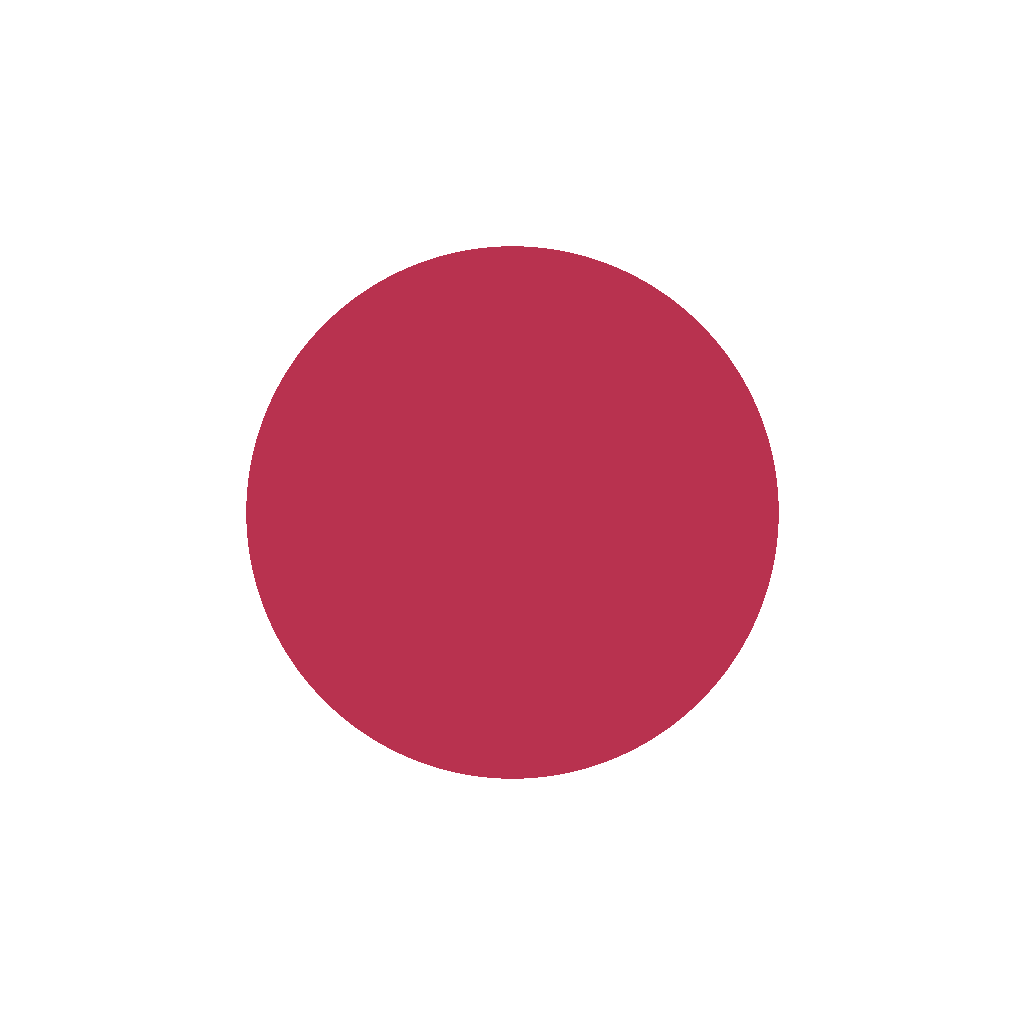
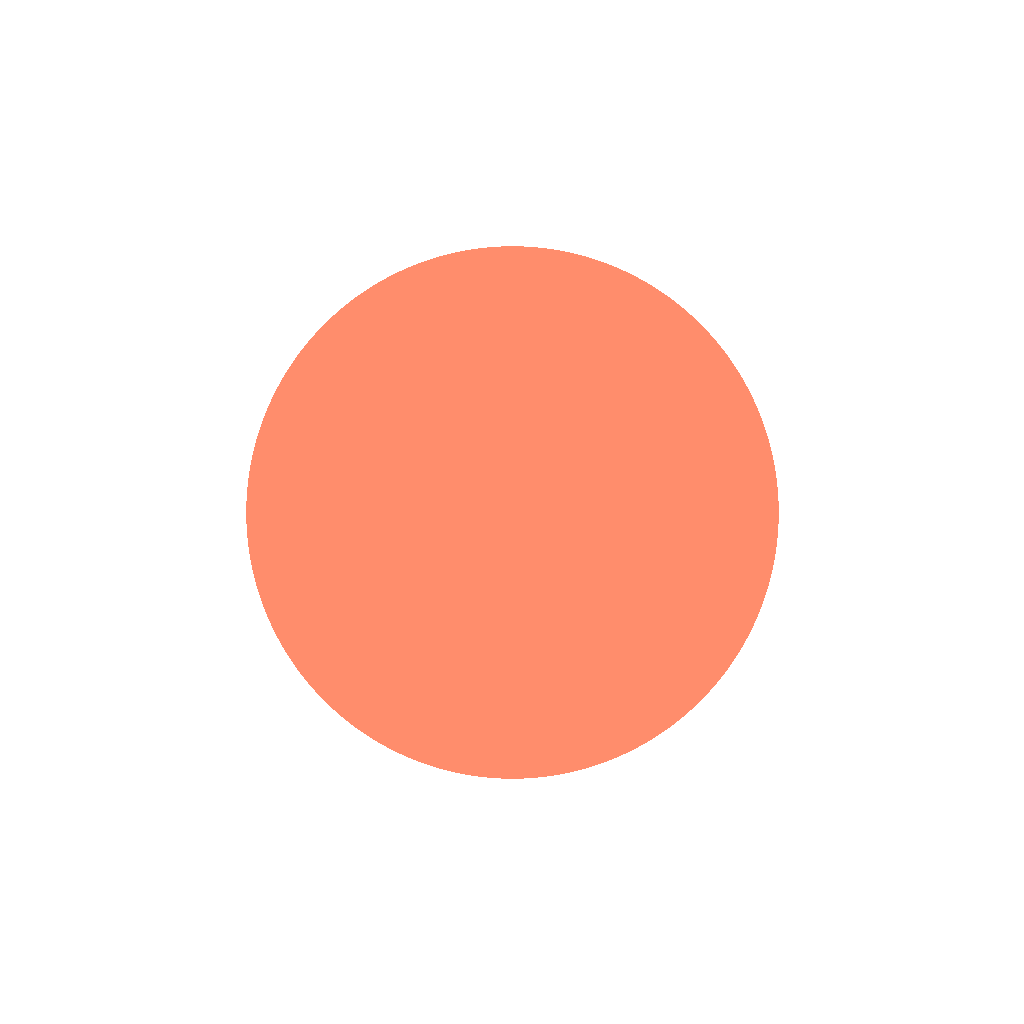
[style] [0.56.1] (finanzas): acento coral del CV (#ff8d6c oscuro, #ae2d18 claro) en lugar del rosado
El acento, la serie 2 de las gráficas, la especificación (§4.1), la prueba de contraste, los tokens de la app Android y
los iconos (el «+») pasan de guayaba a coral, el mismo color de señal del CV. on-accent: #ffffff (claro, 6,59:1) y
#141311 (oscuro, 8,20:1).

Claude-Session: https://claude.ai/code/session_01QHXDsMJdkPo78xJLahC469

Changed region(s): [[0.2188, 0.2188, 0.7812, 0.7812]]

diff --git a/src/ui/tokens.css b/src/ui/tokens.css
@@ -1,5 +1,5 @@
 /*
- * Tokens de diseño «Añil y Guayaba» (docs/design-spec.md §4). Valores EXACTOS de la especificación; `tokens.test.ts` y
+ * Tokens de diseño «Añil y Coral» (docs/design-spec.md §4). Valores EXACTOS de la especificación; `tokens.test.ts` y
  * `contrast.test.ts` los comparan con ella. 1 dp = 1 px CSS; los tamaños de texto van en rem para que escalen (§6).
  *
  * Tema: sigue al sistema (`prefers-color-scheme`) y se puede fijar con `data-theme="light|dark"` en <html>.
@@ -23,7 +23,7 @@
   --color-on-primary: #ffffff;
   --color-primary-container: #e3e6fb;
   --color-on-primary-container: #1c2580;
-  --color-accent: #b8324f;
+  --color-accent: #ae2d18;
   --color-on-accent: #ffffff;
   --color-positive: #12704a;
   --color-positive-container: #ddf3e7;
@@ -40,7 +40,7 @@
 
   /* Paleta categórica de gráficas (8 series) */
   --chart-1: #2f3eb8;
-  --chart-2: #b8324f;
+  --chart-2: #ae2d18;
   --chart-3: #0e7c86;
   --chart-4: #8a5a00;
   --chart-5: #6d3fb5;
@@ -120,8 +120,8 @@
     --color-on-primary: #121a66;
     --color-primary-container: #2a3170;
     --color-on-primary-container: #dde0ff;
-    --color-accent: #ff8fa3;
-    --color-on-accent: #4a0a1a;
+    --color-accent: #ff8d6c;
+    --color-on-accent: #141311;
     --color-positive: #5fd39a;
     --color-positive-container: #0f3d29;
     --color-on-positive-container: #a6ebc8;
@@ -135,7 +135,7 @@
     --color-info-container: #12335a;
     --color-on-info-container: #cfe4fb;
     --chart-1: #a5aeff;
-    --chart-2: #ff8fa3;
+    --chart-2: #ff8d6c;
     --chart-3: #5fd0da;
     --chart-4: #f2c14e;
     --chart-5: #c9a6ff;
@@ -164,8 +164,8 @@
   --color-on-primary: #121a66;
   --color-primary-container: #2a3170;
   --color-on-primary-container: #dde0ff;
-  --color-accent: #ff8fa3;
-  --color-on-accent: #4a0a1a;
+  --color-accent: #ff8d6c;
+  --color-on-accent: #141311;
   --color-positive: #5fd39a;
   --color-positive-container: #0f3d29;
   --color-on-positive-container: #a6ebc8;
@@ -179,7 +179,7 @@
   --color-info-container: #12335a;
   --color-on-info-container: #cfe4fb;
   --chart-1: #a5aeff;
-  --chart-2: #ff8fa3;
+  --chart-2: #ff8d6c;
   --chart-3: #5fd0da;
   --chart-4: #f2c14e;
   --chart-5: #c9a6ff;

diff --git a/mobile/src/theme/tokens.ts b/mobile/src/theme/tokens.ts
@@ -1,5 +1,5 @@
 /**
- * Tokens de diseño «Añil y Guayaba» de la web (`src/ui/tokens.css`, docs/design-spec.md §4), en valores que React Native entiende.
+ * Tokens de diseño «Añil y Coral» de la web (`src/ui/tokens.css`, docs/design-spec.md §4), en valores que React Native entiende.
  * `tokens.test.ts` los compara con el CSS: si la web cambia un color y aquí no, falla. Los egresos NO se pintan de rojo:
  * `negative` es solo para vencido, saldo bajo cero y error (§4.1).
  */
@@ -17,7 +17,7 @@ export const lightColors = {
   onPrimary: "#ffffff",
   primaryContainer: "#e3e6fb",
   onPrimaryContainer: "#1c2580",
-  accent: "#b8324f",
+  accent: "#ae2d18",
   onAccent: "#ffffff",
   positive: "#12704a",
   positiveContainer: "#ddf3e7",
@@ -32,7 +32,7 @@ export const lightColors = {
   infoContainer: "#e0ecfa",
   onInfoContainer: "#17497f",
   chart1: "#2f3eb8",
-  chart2: "#b8324f",
+  chart2: "#ae2d18",
   chart3: "#0e7c86",
   chart4: "#8a5a00",
   chart5: "#6d3fb5",
@@ -55,8 +55,8 @@ export const darkColors = {
   onPrimary: "#121a66",
   primaryContainer: "#2a3170",
   onPrimaryContainer: "#dde0ff",
-  accent: "#ff8fa3",
-  onAccent: "#4a0a1a",
+  accent: "#ff8d6c",
+  onAccent: "#141311",
   positive: "#5fd39a",
   positiveContainer: "#0f3d29",
   onPositiveContainer: "#a6ebc8",
@@ -70,7 +70,7 @@ export const darkColors = {
   infoContainer: "#12335a",
   onInfoContainer: "#cfe4fb",
   chart1: "#a5aeff",
-  chart2: "#ff8fa3",
+  chart2: "#ff8d6c",
   chart3: "#5fd0da",
   chart4: "#f2c14e",
   chart5: "#c9a6ff",

diff --git a/src/ui/contrast.test.ts b/src/ui/contrast.test.ts
@@ -31,7 +31,7 @@ const published: [string, string, number, number][] = [
   ["primary", "surface", 8.39, 8.11],
   ["on-primary", "primary", 8.39, 7.4],
   ["on-primary-container", "primary-container", 10.44, 9.13],
-  ["on-accent", "accent", 5.82, 7.2],
+  ["on-accent", "accent", 6.59, 8.2],
   ["positive", "surface", 6.1, 9.05],
   ["on-positive-container", "positive-container", 7.93, 8.92],
   ["negative", "surface", 6.54, 7.39],

diff --git a/docs/design-spec.md b/docs/design-spec.md
@@ -8,7 +8,7 @@ horaria `America/Bogota`, semana que empieza el lunes. Este documento es una esp
 - **Usuario**: uno solo con 2FA; el modelo queda listo para «hogar» (todo registro cuelga de un `Household`).
 - **Referencias visuales del propietario** («Paier», tableros de patrimonio, pronóstico y «Prognose»): solo referencia. De ellas se
   toman tres patrones, no su aspecto: tabla de pronóstico con real frente a proyectado, corte necesario frente a discrecional y selector de
-  escenario. La identidad visual de este documento («Añil y Guayaba», §4) es propia.
+  escenario. La identidad visual de este documento («Añil y Coral», §4) es propia.
 
 Índice: 0 Criterio rector · 1 Arquitectura de información · 2 Resumen sin scroll · 3 Pantallas y flujos · 4 Tokens · 5 Componentes ·
 6 Accesibilidad · 7 Glosario y reglas de negocio · 8 Modelo de dominio · 9 Cortes de entrega (v1, v2, v3) · 10 Preguntas abiertas.
@@ -999,9 +999,9 @@ sesión vencida (vuelve al destino tras ingresar).
 
 ---
 
-## 4. Tokens de diseño — identidad «Añil y Guayaba»
+## 4. Tokens de diseño — identidad «Añil y Coral»
 
-Concepto: papel cálido y tinta añil para lo estructural, guayaba solo para la acción de crear («+»), y semánticos reservados para estados
+Concepto: papel cálido y tinta añil para lo estructural, coral solo para la acción de crear («+»), y semánticos reservados para estados
 financieros. Sin tarjeta-héroe oscura ni degradados: la jerarquía la dan el tamaño de la cifra y el espacio. Los contrastes de la última
 columna están calculados (WCAG 2.1) sobre el fondo indicado.
 
@@ -1021,8 +1021,8 @@ columna están calculados (WCAG 2.1) sobre el fondo indicado.
 | `primary` (añil) | `#2F3EB8` | `#A5AEFF` | Acciones, enlaces, progreso | 8,39 / 8,11 |
 | `on-primary` | `#FFFFFF` | `#121A66` | Texto sobre `primary` | 8,39 / 7,40 |
 | `primary-container` / `on-…` | `#E3E6FB` / `#1C2580` | `#2A3170` / `#DDE0FF` | Selección, ficha activa | 10,44 / 9,13 |
-| `accent` (guayaba) | `#B8324F` | `#FF8FA3` | Solo el «+» y la marca | — |
-| `on-accent` | `#FFFFFF` | `#4A0A1A` | Icono sobre `accent` | 5,82 / 7,20 |
+| `accent` (coral) | `#AE2D18` | `#FF8D6C` | Solo el «+» y la marca | — |
+| `on-accent` | `#FFFFFF` | `#141311` | Icono sobre `accent` | 6,59 / 8,20 |
 | `positive` | `#12704A` | `#5FD39A` | Ingreso, pagado, al día | 6,10 / 9,05 |
 | `positive-container` / `on-…` | `#DDF3E7` / `#0C5236` | `#0F3D29` / `#A6EBC8` | Fondos de éxito | 7,93 / 8,92 |
 | `negative` | `#B3261E` | `#FF8A80` | Vencido, saldo negativo, error | 6,54 / 7,39 |
@@ -1038,7 +1038,7 @@ rótulo directo o trama, nunca solo color:
 | Serie | Claro | Oscuro |
 |---|---|---|
 | 1 añil | `#2F3EB8` | `#A5AEFF` |
-| 2 guayaba | `#B8324F` | `#FF8FA3` |
+| 2 coral | `#AE2D18` | `#FF8D6C` |
 | 3 turquesa | `#0E7C86` | `#5FD0DA` |
 | 4 ocre | `#8A5A00` | `#F2C14E` |
 | 5 violeta | `#6D3FB5` | `#C9A6FF` |
